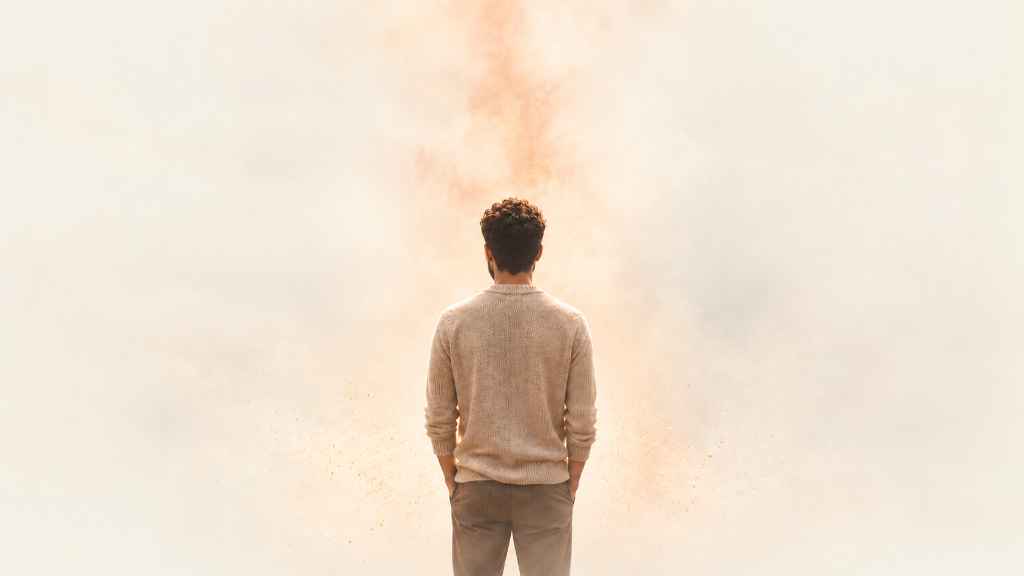
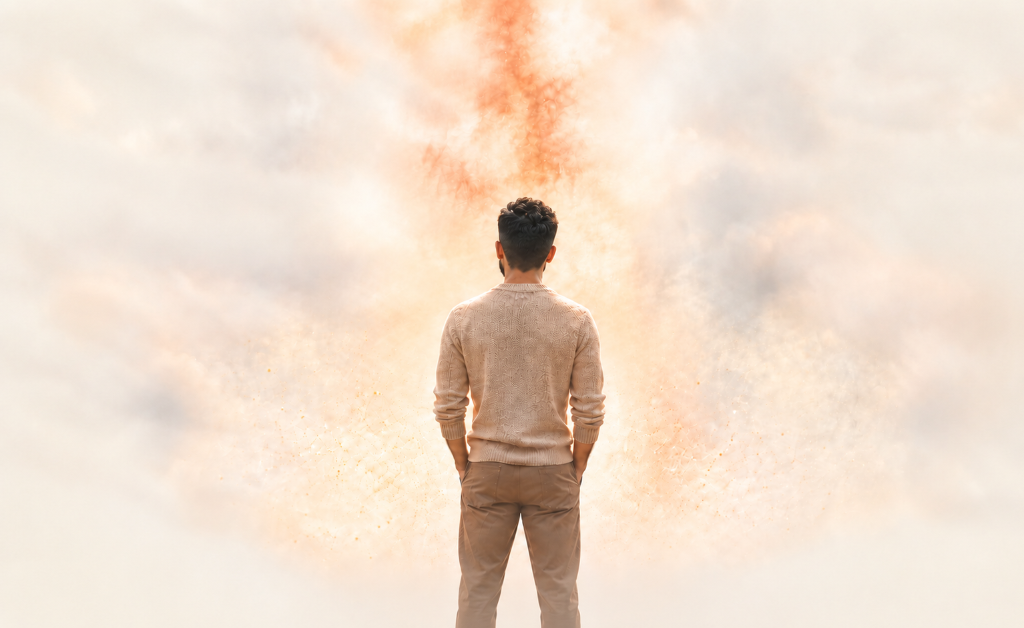
feat: update problem section default image, adjust hero positioning, and unify image resolution across all home sections

diff --git a/client/src/components/principles/CoachingPrinciple.jsx b/client/src/components/principles/CoachingPrinciple.jsx
@@ -1,20 +1,21 @@
-  import { useRef, useState, useEffect } from 'react';
-  import gsap from 'gsap';
-  import { ScrollTrigger } from 'gsap/ScrollTrigger';
-  import { useGSAP } from '@gsap/react';
-  import Container from '../ui/Container';
-  import defaultBgImg from '../../assets/Page6/coaching-process.webp';
-  import { 
-    ChatTeardropText, 
-    MagnifyingGlass, 
-    Compass, 
-    Flag, 
-    ChartLineUp
-  } from '@phosphor-icons/react';
+import { useRef, useState, useEffect } from 'react';
+import gsap from 'gsap';
+import { ScrollTrigger } from 'gsap/ScrollTrigger';
+import { useGSAP } from '@gsap/react';
+import Container from '../ui/Container';
+import defaultBgImg from '../../assets/Page6/coaching-process.webp';
+import { resolveImageUrl } from '../../utils/imageUrl';
+import { 
+  ChatTeardropText, 
+  MagnifyingGlass, 
+  Compass, 
+  Flag, 
+  ChartLineUp
+} from '@phosphor-icons/react';
 
-  gsap.registerPlugin(ScrollTrigger);
+gsap.registerPlugin(ScrollTrigger);
 
-  const API_URL = import.meta.env.VITE_API_URL || 'http://localhost:5000';
+const API_URL = import.meta.env.VITE_API_URL || 'https://api.aarkeshgupta.com';
 
   const ICONS = [ChatTeardropText, MagnifyingGlass, Compass, Flag, ChartLineUp];
 
@@ -111,14 +112,7 @@
     );
   }, { scope: container, dependencies: [data] });
 
-  const resolvedBgUrl = (() => {
-    const url = data.bgImg;
-    if (!url) return '';
-    const apiUrl = import.meta.env.VITE_API_URL || 'https://api.aarkeshgupta.com';
-    if (url.includes('localhost:5000/uploads/')) return url.replace('http://localhost:5000/uploads/', `${apiUrl}/uploads/`);
-    if (url.startsWith('/uploads/')) return `${apiUrl}${url}`;
-    return url;
-  })();
+  const resolvedBgUrl = resolveImageUrl(data.bgImg, defaultBgImg);
 
   return (
     <section ref={container} id="coaching" className="principle-panel relative w-full h-auto lg:h-screen min-h-screen flex flex-col overflow-hidden bg-[#f5f1e8] snap-start">
@@ -130,6 +124,11 @@
             src={resolvedBgUrl} 
             alt="Coaching Process"
             onLoad={() => setIsImgLoaded(true)}
+            onError={(e) => {
+              if (e.currentTarget.src !== defaultBgImg) {
+                e.currentTarget.src = defaultBgImg;
+              }
+            }}
             className={`w-full h-full object-cover will-change-transform transition-opacity duration-700 ${
               isImgLoaded ? 'opacity-100' : 'opacity-0'
             }`}

diff --git a/client/src/components/testimonials/TestimonialsSection.jsx b/client/src/components/testimonials/TestimonialsSection.jsx
@@ -1,6 +1,7 @@
 import React, { useState, useEffect } from 'react';
 import Container from '../ui/Container';
 import defaultBgImg from '../../assets/Page9/testimonials-doorway.webp';
+import { resolveImageUrl } from '../../utils/imageUrl';
 import { 
   Quotes, 
   ArrowRight, 
@@ -106,7 +107,7 @@ export default function TestimonialsSection() {
   const heading1 = data?.headingLine1 || 'Their words.';
   const headingAccent = data?.headingAccent || 'Their transformation.';
   const description = data?.description || 'People from different walks of life. Different challenges. Same results that matter.';
-  const bgImg = data?.bgImg || defaultBgImg;
+  const bgImg = resolveImageUrl(data?.bgImg, defaultBgImg);
   const testimonials = (data?.items && data.items.length > 0) ? data.items : DEFAULT_TESTIMONIALS;
 
   return (
@@ -117,6 +118,11 @@ export default function TestimonialsSection() {
         <img 
           src={bgImg} 
           alt="Glowing Doorway" 
+          onError={(e) => {
+            if (e.currentTarget.src !== defaultBgImg) {
+              e.currentTarget.src = defaultBgImg;
+            }
+          }}
           className="w-full h-full object-cover opacity-100 contrast-[1.05] saturate-[1.05] will-change-transform"
           style={{
             objectPosition: `${DESKTOP_IMAGE_CONTROLS.posX} ${DESKTOP_IMAGE_CONTROLS.posY}`,
@@ -184,7 +190,7 @@ export default function TestimonialsSection() {
                       <div className="flex items-center gap-3 mt-auto pt-2 border-t border-black/8">
                         {t.image ? (
                           <div className="w-9 h-9 sm:w-10 sm:h-10 rounded-full overflow-hidden border border-[#c9542f]/30 shrink-0 bg-white/80 shadow-xs">
-                            <img src={t.image} alt={t.name} className="w-full h-full object-cover" />
+                            <img src={resolveImageUrl(t.image)} alt={t.name} className="w-full h-full object-cover" />
                           </div>
                         ) : (
                           <div className={`w-9 h-9 sm:w-10 sm:h-10 rounded-full ${color} text-white flex items-center justify-center shrink-0 shadow-xs`}>

diff --git a/client/src/components/cta/FinalCtaSection.jsx b/client/src/components/cta/FinalCtaSection.jsx
@@ -1,6 +1,7 @@
 import React, { useState, useEffect } from 'react';
 import Container from '../ui/Container';
 import defaultBgImg from '../../assets/Page10/next-chapter-cozy.webp';
+import { resolveImageUrl } from '../../utils/imageUrl';
 import { 
   ArrowRight, 
   LockKey,
@@ -10,7 +11,7 @@ import {
 } from '@phosphor-icons/react';
 import { Link } from 'react-router-dom';
 
-const API_URL = import.meta.env.VITE_API_URL || 'http://localhost:5000';
+const API_URL = import.meta.env.VITE_API_URL || 'https://api.aarkeshgupta.com';
 
 // =========================================================================
 // 🎛 DESKTOP IMAGE CONTROLS (Adjust zoom & position here!)
@@ -51,7 +52,7 @@ export default function FinalCtaSection() {
   const ctaText = data?.ctaText || 'BOOK YOUR SESSION';
   const ctaLink = data?.ctaLink || '/book';
   const confidentialText = data?.confidentialText || '100% Confidential & Safe Space';
-  const bgImg = data?.bgImg || defaultBgImg;
+  const bgImg = resolveImageUrl(data?.bgImg, defaultBgImg);
   const quote1 = data?.quoteLine1 || "You don't have to have it all figured out.";
   const quote2 = data?.quoteLine2 || "You just have to be willing to begin.";
 
@@ -63,6 +64,11 @@ export default function FinalCtaSection() {
         <img 
           src={bgImg} 
           alt="Your next chapter starts here" 
+          onError={(e) => {
+            if (e.currentTarget.src !== defaultBgImg) {
+              e.currentTarget.src = defaultBgImg;
+            }
+          }}
           className="w-full h-full object-cover opacity-100 contrast-[1.02] saturate-[1.03] will-change-transform"
           style={{
             objectPosition: `${DESKTOP_IMAGE_CONTROLS.posX} ${DESKTOP_IMAGE_CONTROLS.posY}`,

diff --git a/client/src/components/problem/WordCloud.jsx b/client/src/components/problem/WordCloud.jsx
@@ -2,6 +2,7 @@ import { useRef } from 'react';
 import gsap from 'gsap';
 import { ScrollTrigger } from 'gsap/ScrollTrigger';
 import { useGSAP } from '@gsap/react';
+import { resolveImageUrl } from '../../utils/imageUrl';
 import silhouetteImg from '../../assets/Page2/problem_silhouette.png';
 
 gsap.registerPlugin(ScrollTrigger);
@@ -35,8 +36,9 @@ const WORDS = [
   { text: 'Comparison',       top: '70%',  left: '75%', size: 'text-base sm:text-lg md:text-xl',  opacity: 'opacity-75' },
 ];
 
-export default function WordCloud() {
+export default function WordCloud({ customImg = '' }) {
   const container = useRef(null);
+  const imgSrc = resolveImageUrl(customImg, silhouetteImg);
 
   useGSAP(() => {
     const words = gsap.utils.toArray('.floating-word');
@@ -70,9 +72,14 @@ export default function WordCloud() {
       {/* Silhouette Image Full Background - 100% Clear & High Contrast */}
       <div className="absolute inset-0 z-0 pointer-events-none">
         <img 
-          src={silhouetteImg} 
+          src={imgSrc} 
           alt="Silhouette" 
-          className="w-full h-full object-cover object-center opacity-100 contrast-[1.2] saturate-[1.15]"
+          onError={(e) => {
+            if (e.currentTarget.src !== silhouetteImg) {
+              e.currentTarget.src = silhouetteImg;
+            }
+          }}
+          className="w-full h-full object-cover object-[58%_center] sm:object-[62%_center] lg:object-[64%_center] opacity-100 contrast-[1.05] saturate-[1.05]"
         />
       </div>
 

diff --git a/client/src/components/principles/CoachingJourney.jsx b/client/src/components/principles/CoachingJourney.jsx
@@ -4,6 +4,7 @@ import { ScrollTrigger } from 'gsap/ScrollTrigger';
 import { useGSAP } from '@gsap/react';
 import Container from '../ui/Container';
 import defaultBgImg from '../../assets/Page7/coaching-journey.webp';
+import { resolveImageUrl } from '../../utils/imageUrl';
 import { 
   Compass, 
   Heart, 
@@ -238,7 +239,7 @@ export default function CoachingJourney() {
     );
   }, { scope: container, dependencies: [data] });
 
-  const resolvedJourneySrc = resolveJourneyImg(data.bgImg);
+  const resolvedJourneySrc = resolveImageUrl(data.bgImg, defaultBgImg);
 
   return (
     <section ref={container} id="coaching-journey" className="principle-panel relative w-full h-auto lg:h-screen min-h-screen flex flex-col overflow-hidden bg-[#f5f1e8] snap-start">
@@ -250,6 +251,11 @@ export default function CoachingJourney() {
             src={resolvedJourneySrc} 
             alt="The Coaching Journey"
             onLoad={() => setIsImgLoaded(true)}
+            onError={(e) => {
+              if (e.currentTarget.src !== defaultBgImg) {
+                e.currentTarget.src = defaultBgImg;
+              }
+            }}
             className={`w-full h-full object-cover will-change-transform transition-opacity duration-700 ${
               isImgLoaded ? 'opacity-95' : 'opacity-0'
             }`}

diff --git a/client/src/components/principles/DecidePrinciple.jsx b/client/src/components/principles/DecidePrinciple.jsx
@@ -1,6 +1,7 @@
 import { usePrinciplesData } from '../../hooks/usePrinciplesData';
 import PrincipleSection from './PrincipleSection';
 import defaultBgImg from '../../assets/Page5/decide-intentionally.jpg';
+import { resolveImageUrl } from '../../utils/imageUrl';
 import { Sparkle, GitFork, Spiral, Target, SlidersHorizontal, ArrowRight } from '@phosphor-icons/react';
 
 const DEFAULT_DECIDE_DATA = {
@@ -45,7 +46,7 @@ export default function DecidePrinciple() {
     `<span class='italic font-serif text-xl lg:text-2xl leading-relaxed text-[#c9542f] block hyphens-none' style='font-family: Fraunces, Georgia, serif;'>${data?.closingLine || '....Then we help you walk it.'}</span>`
   ];
   const buttonText = data?.buttonText || '';
-  const bgImg = data?.bgImg || defaultBgImg;
+  const bgImg = resolveImageUrl(data?.bgImg, defaultBgImg);
 
   const customFlow = (
     <div className="flex items-center gap-2 font-sans text-[0.65rem] uppercase tracking-[0.2em] font-medium">
@@ -59,6 +60,7 @@ export default function DecidePrinciple() {
     <PrincipleSection 
       id="decide-principle"
       bgImg={bgImg}
+      fallbackImg={defaultBgImg}
       eyebrow={eyebrow}
       headlineWhite={headlineWhite}
       headlineGold={headlineGold}

diff --git a/client/src/components/principles/ThinkPrinciple.jsx b/client/src/components/principles/ThinkPrinciple.jsx
@@ -1,6 +1,7 @@
 import { usePrinciplesData } from '../../hooks/usePrinciplesData';
 import PrincipleSection from './PrincipleSection';
 import defaultBgImg from '../../assets/Page3/think-clearly.png';
+import { resolveImageUrl } from '../../utils/imageUrl';
 import { Sparkle, SunDim, TextT, Coffee, Circle } from '@phosphor-icons/react';
 
 const DEFAULT_THINK_DATA = {
@@ -36,12 +37,13 @@ export default function ThinkPrinciple() {
     `<span class='font-serif text-base lg:text-lg font-normal not-italic leading-relaxed text-[#4a463e] block hyphens-none' style='font-family: Fraunces, Georgia, serif; font-style: normal;'>${descText}</span>`
   ];
   const buttonText = data?.buttonText || 'SCROLL FOR NEXT PRINCIPLE';
-  const bgImg = data?.bgImg || defaultBgImg;
+  const bgImg = resolveImageUrl(data?.bgImg, defaultBgImg);
 
   return (
     <PrincipleSection 
       id="think-principle"
       bgImg={bgImg}
+      fallbackImg={defaultBgImg}
       imagePosition="object-[70%_center] md:object-[74%_center] lg:object-[78%_center]"
       eyebrow={eyebrow}
       headlineWhite={headlineWhite}

diff --git a/client/src/components/principles/FeelPrinciple.jsx b/client/src/components/principles/FeelPrinciple.jsx
@@ -1,6 +1,7 @@
 import { usePrinciplesData } from '../../hooks/usePrinciplesData';
 import PrincipleSection from './PrincipleSection';
 import defaultBgImg from '../../assets/Page4/feel-honestly.webp';
+import { resolveImageUrl } from '../../utils/imageUrl';
 import { Sparkle, CloudRain, Waves, Heart, SunDim } from '@phosphor-icons/react';
 
 const DEFAULT_FEEL_DATA = {
@@ -38,12 +39,13 @@ export default function FeelPrinciple() {
     `<span class='font-serif text-base lg:text-lg font-normal not-italic leading-relaxed text-[#4a463e] block hyphens-none' style='font-family: Fraunces, Georgia, serif; font-style: normal;'>${descText}</span>`
   ];
   const buttonText = data?.buttonText || '';
-  const bgImg = data?.bgImg || defaultBgImg;
+  const bgImg = resolveImageUrl(data?.bgImg, defaultBgImg);
 
   return (
     <PrincipleSection 
       id="feel-principle"
       bgImg={bgImg}
+      fallbackImg={defaultBgImg}
       imagePosition="object-[70%_center] md:object-[75%_center] lg:object-[80%_center]"
       eyebrow={eyebrow}
       headlineWhite={headlineWhite}

diff --git a/client/src/components/principles/PrincipleSection.jsx b/client/src/components/principles/PrincipleSection.jsx
@@ -10,6 +10,7 @@ gsap.registerPlugin(ScrollTrigger);
 export default function PrincipleSection({
   id,
   bgImg,
+  fallbackImg,
   eyebrow,
   headlineWhite,
   headlineGold,
@@ -60,6 +61,11 @@ export default function PrincipleSection({
           <img 
             src={bgImg} 
             alt="Principle Background"
+            onError={(e) => {
+              if (fallbackImg && e.currentTarget.src !== fallbackImg) {
+                e.currentTarget.src = fallbackImg;
+              }
+            }}
             className={`w-full h-full object-cover opacity-100 contrast-[1.08] saturate-[1.05] ${imagePosition || 'object-[75%_center] lg:object-[78%_center]'}`}
             style={{ imageRendering: '-webkit-optimize-contrast' }}
           />

diff --git a/client/src/components/problem/ProblemSection.jsx b/client/src/components/problem/ProblemSection.jsx
@@ -7,7 +7,7 @@ import ProblemContent from './ProblemContent';
 import WordCloud from './WordCloud';
 import TransitionIntro from './TransitionIntro';
 
-const API_URL = import.meta.env.VITE_API_URL || 'http://localhost:5000';
+const API_URL = import.meta.env.VITE_API_URL || 'https://api.aarkeshgupta.com';
 
 gsap.registerPlugin(ScrollTrigger);
 
@@ -176,7 +176,7 @@ export default function ProblemSection() {
 
         {/* Word Cloud stretches across full width to act as background */}
         <div className="absolute inset-0 z-10 w-full h-full pointer-events-none">
-          <WordCloud />
+          <WordCloud customImg={problemData?.bgImg || problemData?.silhouetteImg || ''} />
         </div>
 
       </div>

diff --git a/admin/src/pages/AdminHomeEditor.jsx b/admin/src/pages/AdminHomeEditor.jsx
@@ -63,7 +63,7 @@ import defaultHumanImg from '../../../client/src/assets/Page8/human.webp';
 import defaultTestimonialsImg from '../../../client/src/assets/Page9/testimonials-doorway.webp';
 import defaultCtaImg from '../../../client/src/assets/Page10/next-chapter-cozy.webp';
 
-const API_URL = import.meta.env.VITE_API_URL || 'http://localhost:5000';
+const API_URL = import.meta.env.VITE_API_URL || (typeof window !== 'undefined' && window.location.hostname.includes('localhost') ? 'http://localhost:5000' : 'https://api.aarkeshgupta.com');
 
 const SIDEBAR_TABS = [
   { id: 'hero', label: 'Hero Section', icon: <Desktop size={18} />, description: 'Main banner, title & background' },

diff --git a/client/src/components/hero/HeroImage.jsx b/client/src/components/hero/HeroImage.jsx
@@ -39,8 +39,8 @@ export default function HeroImage({
       ref={container} 
       className="w-full h-full relative overflow-hidden bg-[#f5f1e8]"
     >
-      {/* Character Image wrapper pinned below navbar to protect head from being cut */}
-      <div className="absolute inset-x-0 bottom-0 top-[115px] sm:top-[125px] md:top-[135px] lg:top-[130px] flex items-end justify-end">
+      {/* Character Image wrapper pinned below navbar to close gap */}
+      <div className="absolute inset-x-0 bottom-0 top-[75px] sm:top-[80px] md:top-[85px] lg:top-[85px] flex items-end justify-end">
         <img
           ref={imageRef}
           src={imgSrc}
